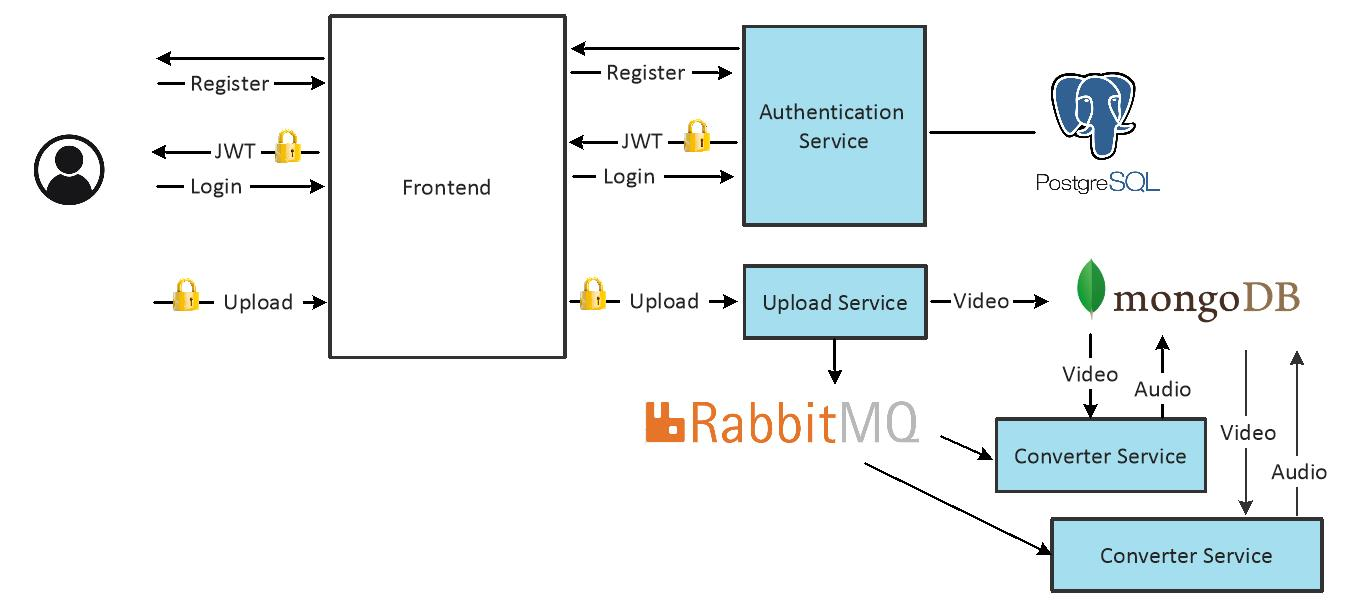
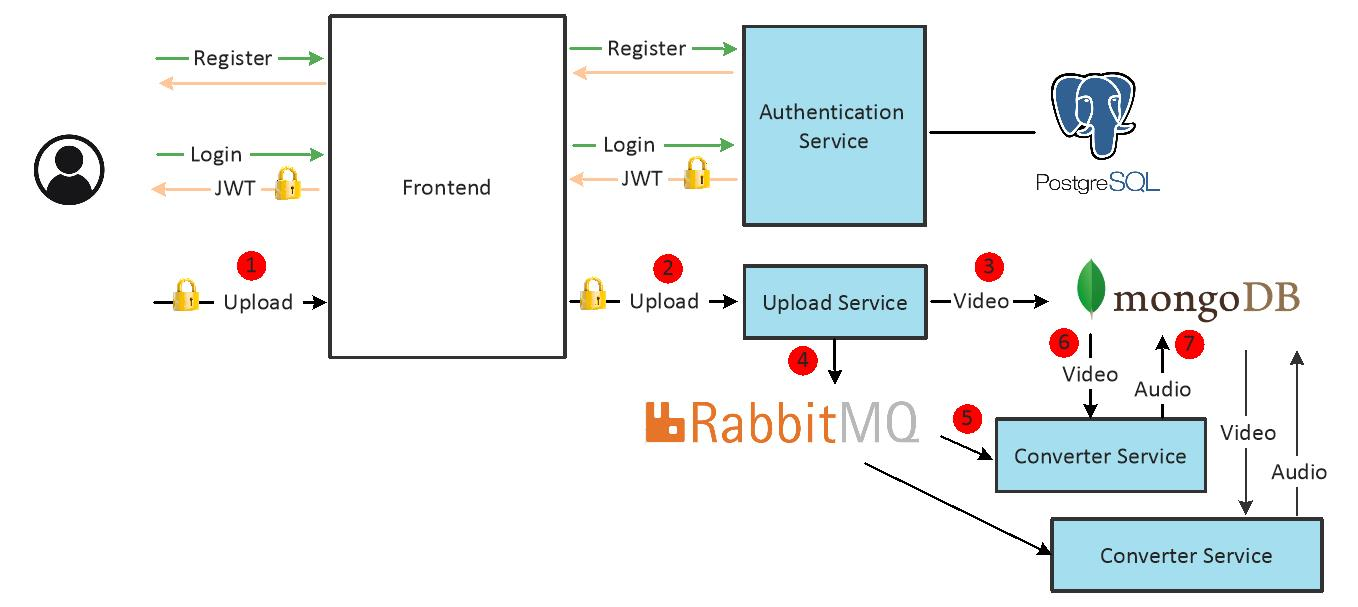
added telemetry

diff --git a/README.md b/README.md
@@ -126,25 +126,17 @@ To further improve message delivery guarantees, the system could implement the f
 
 The frontend is the user-facing component of the system. It is built using Flask and provides a lightweight web interface that enables users to interact with the backend services. This service handles all user interactions including:
 
-- Registration:
+- User Registration:
 
-  New users can sign up by providing a username, password, and email address.
+  New users can sign up by providing a username, password, and email address. These credentials are sent to the auth_service, where they are stored after password hashing.
 
-  These credentials are sent to the auth_service, where they are stored after password hashing.
+- User Authentication:
 
-- Login:
-
-  Existing users authenticate with their credentials.
-
-  Upon successful login, a JWT token is issued by the auth_service and stored in Flask session cookies.
-
-  This enables secure, authenticated requests to the backend without repeatedly asking the user to log in.
+  Existing users authenticate with their credentials. Upon successful login, a JWT token is issued by the auth_service and stored in Flask session cookies. This enables secure, authenticated requests to the backend without repeatedly asking the user to log in.
 
 - Video Upload:
 
-  Authenticated users can upload video files through a simple web form.
-
-  The uploaded file, along with the JWT token, is forwarded to the upload_service for processing.
+  Authenticated users can upload video files through a simple web form. The uploaded file, along with the JWT token, is forwarded to the upload_service for processing.
 
 Here is a summary of endpoints:
 
@@ -189,6 +181,10 @@ You will be able to:
 - Extract and store audio from the video
 - Receive an email notification with download link to the audio file
 
+Uploaded videos and extracted audio files in MongoDB are automatically deleted after 1 hour.
+
+## Demo
+
 <img src="pics/demo.gif" alt="segment">
 
 Docker logs from the converter_service shows successful audio extraction:
@@ -201,8 +197,6 @@ MoviePy - Done.
 Saving audio track to MongoDB
 Audio created: 68116259f0d87e4f062f9407. Sending email to nima@gmail.com...
 ```
-
-Uploaded videos and extracted audio files in MongoDB are automatically deleted after 1 hour.
 
 ## User Interaction Flow
 
@@ -226,18 +220,38 @@ The following shows the user interaction flow:
 
     Once the JWT token is obtained and stored, the frontend redirects the user to the upload interface by issuing a `GET /upload` request. The upload page (upload.html) provides a form where users can select and submit a video file. Upon form submission, a `POST /upload` request is sent to the frontend, which then forwards the file along with the user's JWT to the upload_service.
 
-    The upload_service validates the JWT, extracts user identity, and saves the uploaded video file to MongoDB using GridFS, which is optimized for handling large binary files. Upon successful storage, the service publishes a message containing the video_id and associated metadata to the video_queue in RabbitMQ, enabling asynchronous processing.
+    The upload_service validates the JWT, extracts user identity, and saves the uploaded video file to MongoDB using GridFS, which is optimized for handling large binary files. Upon successful storage, the service publishes a message containing the video_id and associated metadata to the **video_queue** in RabbitMQ, enabling asynchronous processing.
 
 4. Audio Conversion and Notification
 
-    The video_queue is monitored by multiple instances of the converter_service, which act as workers. RabbitMQ dispatches the message to one of the available workers. The selected converter_service retrieves the video file from MongoDB using the provided video_id, processes the file using MoviePy to extract the audio stream, and stores the resulting .mp3 audio file back into MongoDB.
+    The **video_queue** is monitored by multiple instances of the converter_service, which act as workers. RabbitMQ dispatches the message to one of the available workers. The selected converter_service retrieves the video file from MongoDB using the provided video_id, processes the file using MoviePy to extract the audio stream, and stores the resulting .mp3 audio file back into MongoDB.
 
     Upon successful extraction and storage, the converter_service sends an email notification to the user using the email address obtained during registration. The message informs the user that the audio file is ready for download, completing the asynchronous video-to-audio conversion workflow.
 
-## Telemetry
+## RabbitMQ Telemetry
 
+We are running a RabbitMQ server with the management plugin enabled, providing a web-based interface at:
 
-send MQTT status using telegraf to DB and visualize it
+    http://localhost:15672
 
-monitor msg queue status using telegraf
+Through this portal, you can monitor active connections including two instances of converter_service:
 
+<img src="pics/connections.jpg" alt="segment" width="800">
+
+As well as detailed metrics for the video_queue, such as queue depth (number of messages currently held in the queue) and message rates (how fast messages are being handled by the queue):
+
+<img src="pics/queues.jpg" alt="segment" width="800">
+
+To collect telemetry data from RabbitMQ, I have configured Telegraf with the native RabbitMQ input [plugin](https://github.com/influxdata/telegraf/blob/master/plugins/inputs/rabbitmq/README.md). This allows Telegraf to periodically gather statistics from the broker's management API. The collected metrics are then forwarded to an InfluxDB time-series database running on a different Raspberry Pi node (Zeus), enabling historical analysis, monitoring, and visualization of RabbitMQ performance over time.
+
+#### Broker-wide Health
+
+<img src="pics/broker_wide_health.jpg" alt="segment" width="900">
+
+#### Resource Usage & System Load
+
+<img src="pics/resource_usage.jpg" alt="segment" width="900">
+
+#### Per-Queue Performance
+
+<img src="pics/per_queue_performance.jpg" alt="segment" width="900">
